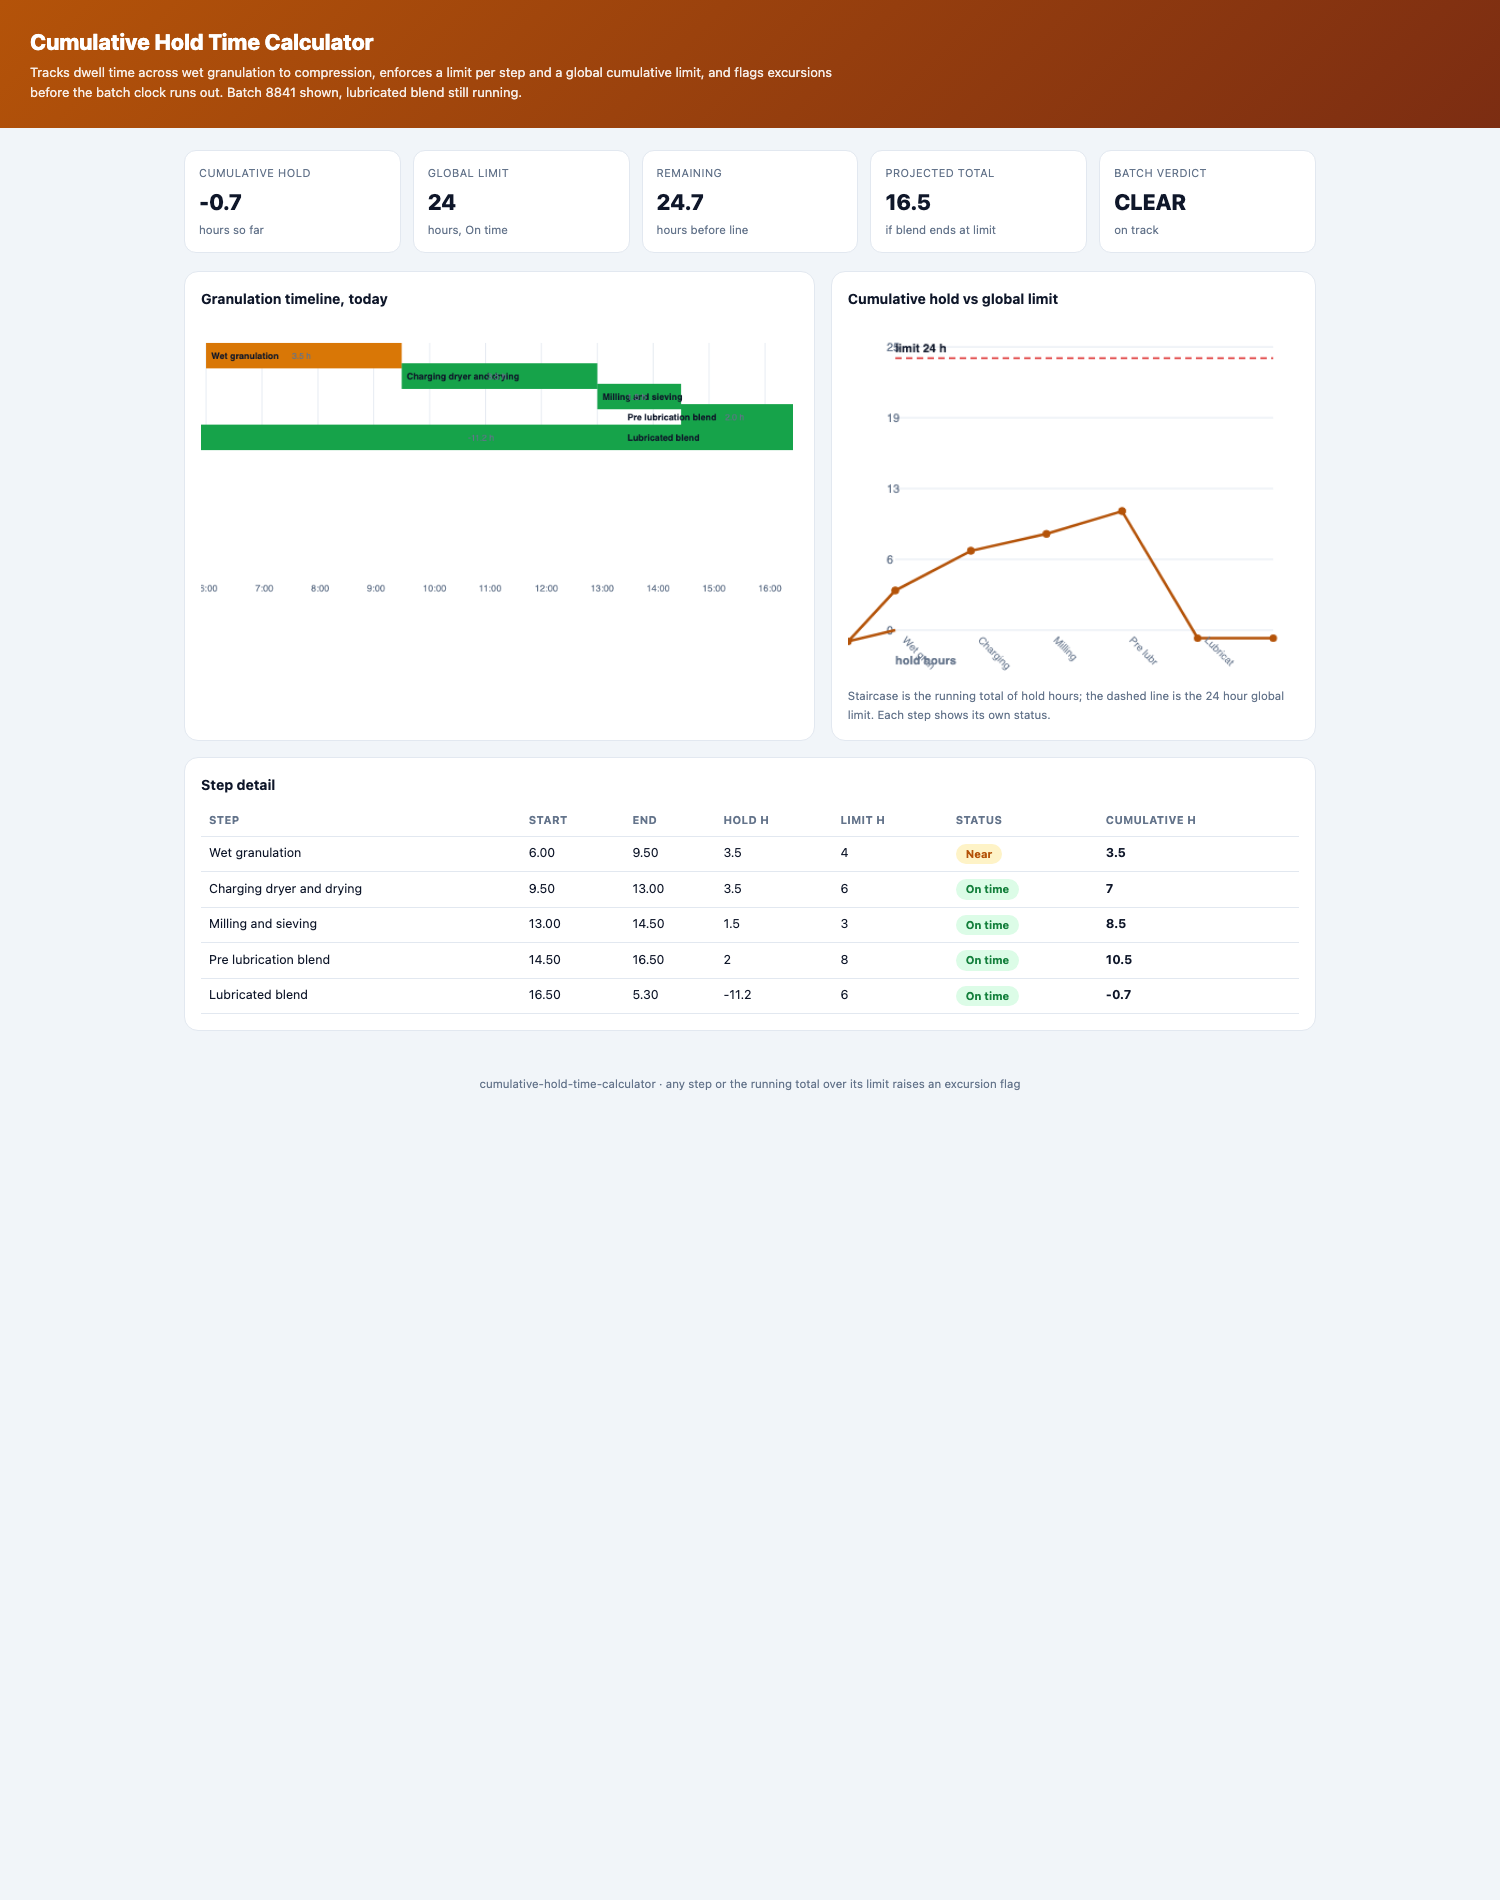
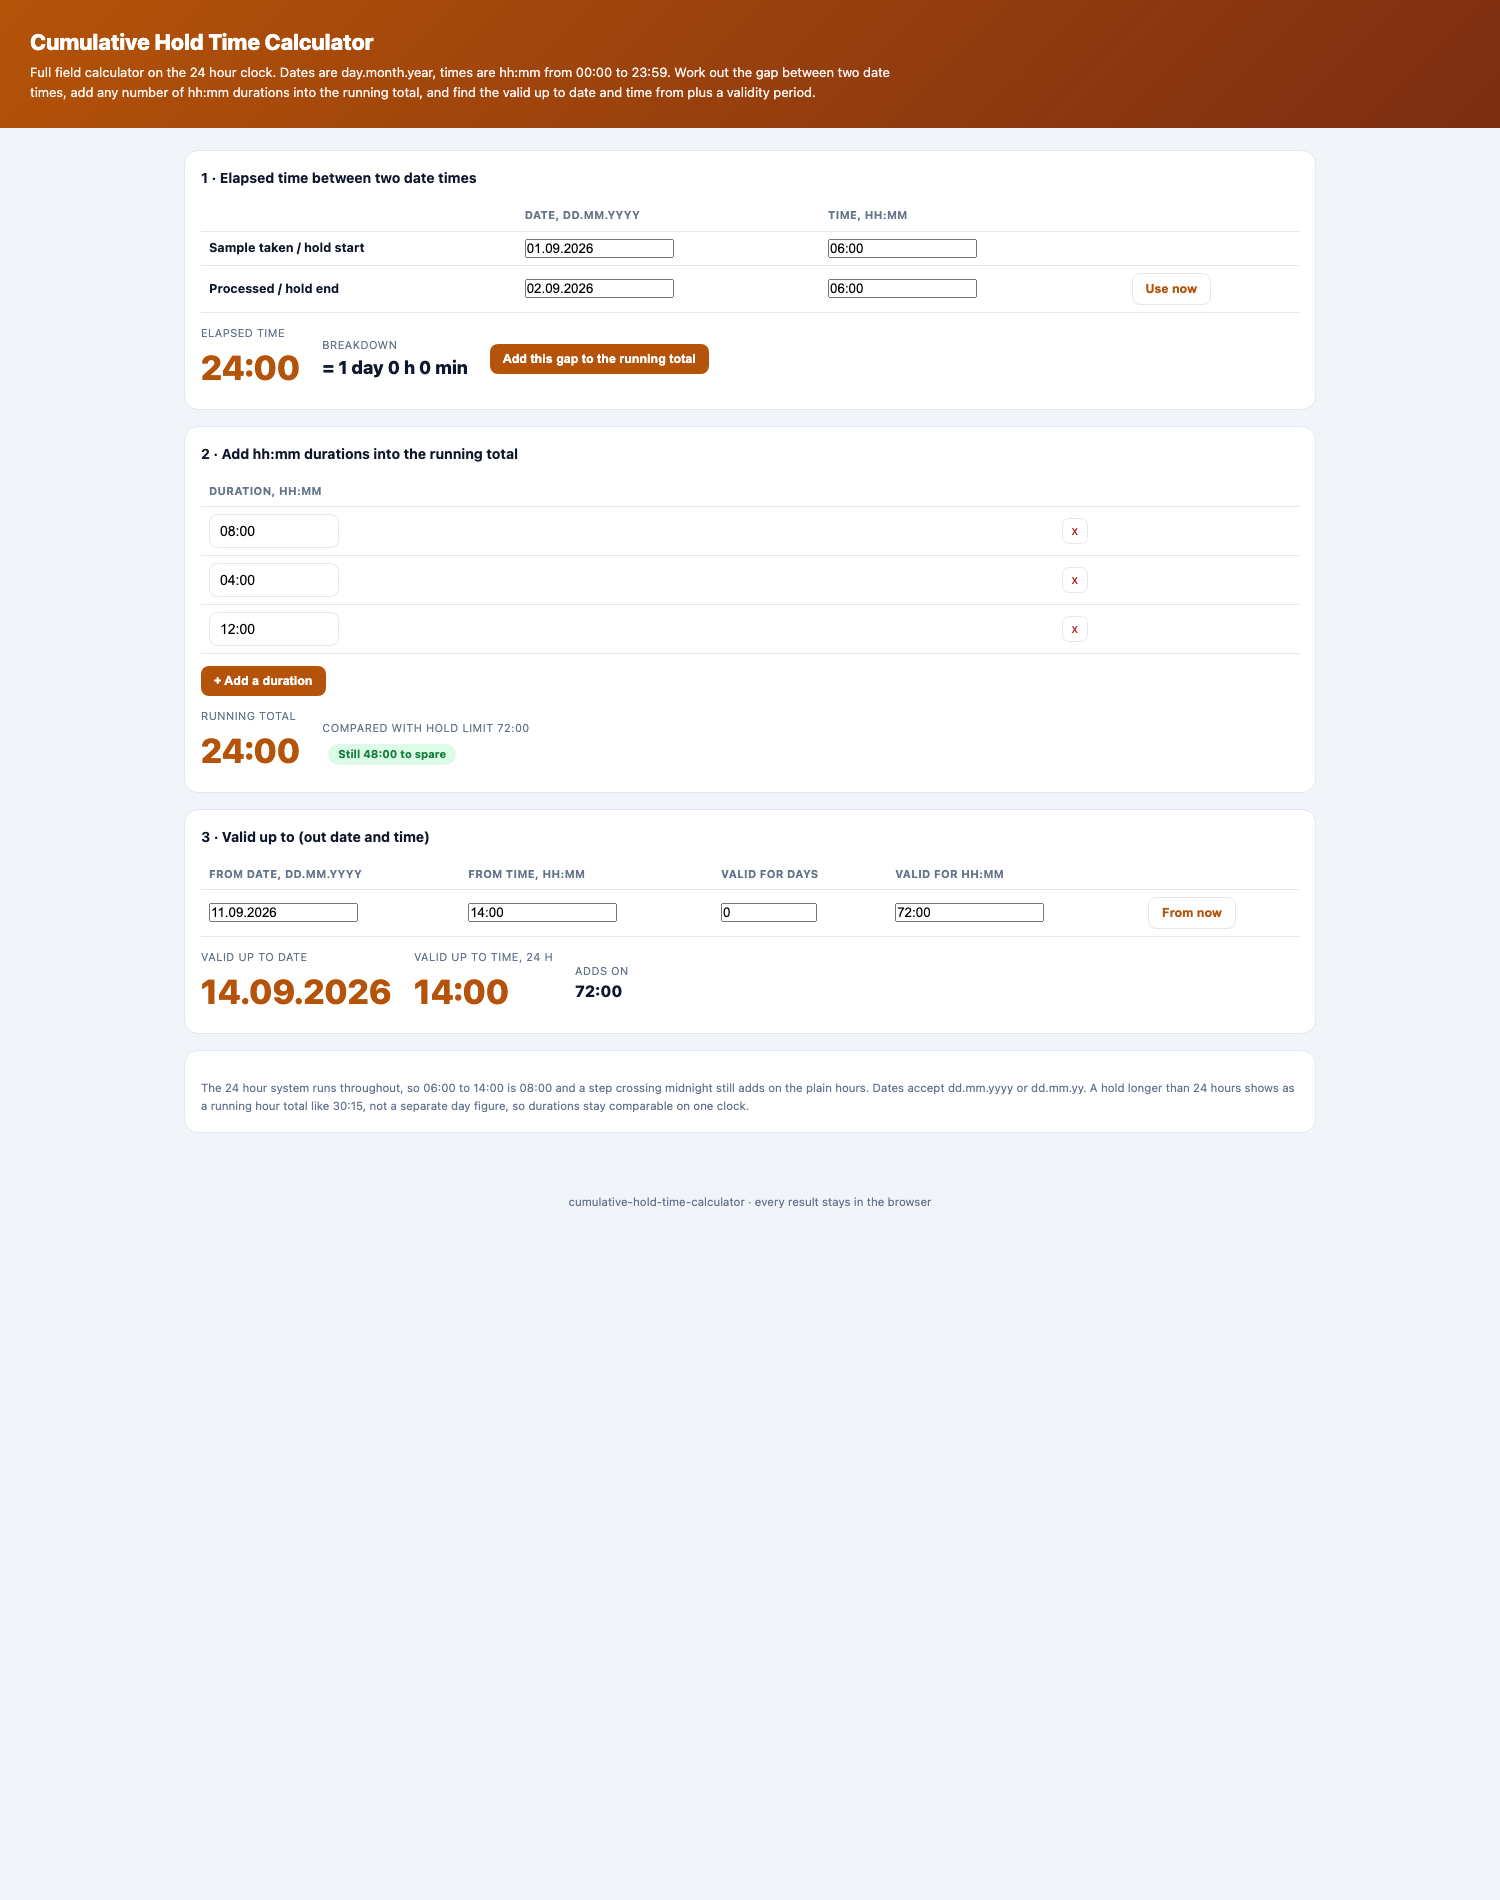
Update hold time portfolio card for field calculator

diff --git a/index.html b/index.html
@@ -119,7 +119,7 @@ const PROJECTS = [
    img:'previews/batch-assay-calculator.png', desc:'Reads the API assay as is from the certificate and turns the required pure active into the kilograms to weigh, rolls to the next lot when the selected one is not enough, and flags the batch short on stock.',
    badges:['As is assay','Python','33 tests']},
   {name:'Cumulative Hold Time Calculator', repo:'cumulative-hold-time-calculator', cat:'osd', tag:'Dwell time from granulation to compression',
-   img:'previews/cumulative-hold-time-calculator.png', desc:'Tracks per step and cumulative in process hold time against limits, forecasts a running step and flags an excursion before the batch clock runs out.',
+   img:'previews/cumulative-hold-time-calculator.png', desc:'Field calculator on the 24 hour clock: differences between any taken and processed date times, a running total of hh:mm durations against the 72:00 hold limit, and a valid up to date and time from a validity period.',
    badges:['Excursion flag','Python','13 tests']},
 ];
 const CATS={plant:'Plant operations',osd:'OSD tableting'};
